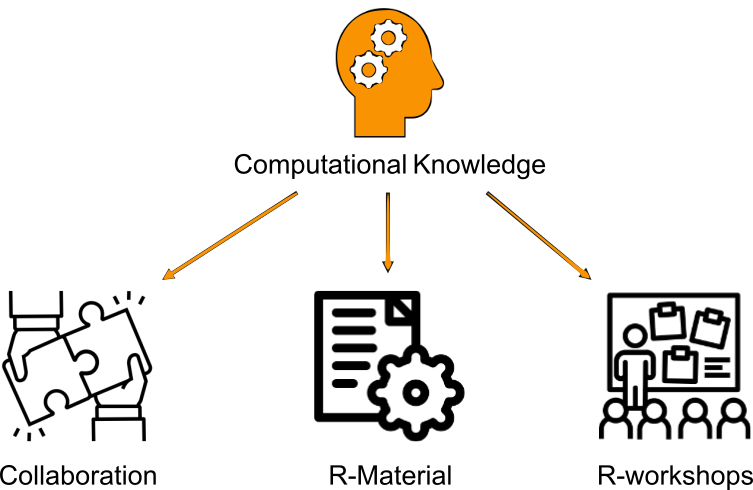
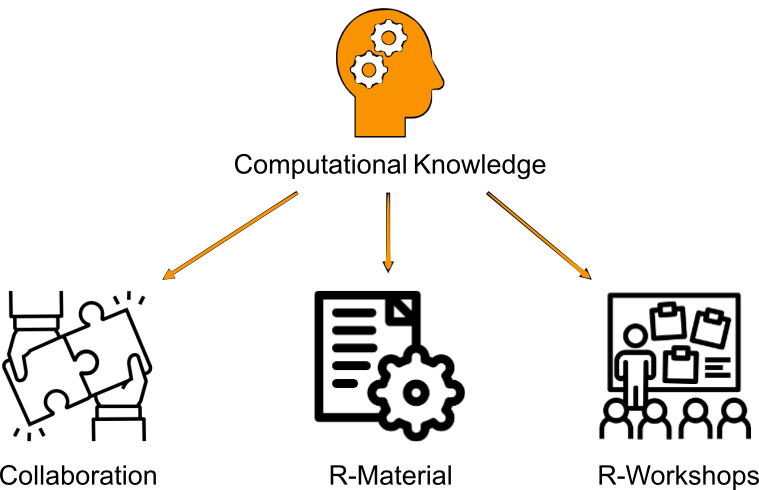
Comp Knowledge

diff --git a/_services/learning-and-collaboration.md b/_services/learning-and-collaboration.md
@@ -15,7 +15,7 @@ At the societal analytics lab we aim to serve as a nexus for connecting various 
 
 Our goal is to help social scientists acquire important computing skills. 
 
-We know that in contemporary academia, scientists have little time to invest in learning something new! Therefore, we offer three options: [Collaboration](#Collaboration), [R-Material](#R-Material), and [R-Workshops](#R-Workshops).
+We know that in contemporary academia, scientists have little time to invest in learning something new! Therefore, we offer three options: [Collaboration](#collaboration), [R Material](#r-material), and [R Workshops](#r-workshops).
 
 <p align="center">
   <img src="/images/illustrations/Comp_Knowledge.png" />
@@ -28,14 +28,14 @@ If you find yourself in need of an expert opinion or support on a particular top
 
 We would like to foster a collaboration network where we and other Lab members can speed-up science by exchanging ideas, knowledge, and skills.
 
-## R-Material
+## R Material
 
 We maintain a repository with R course material, on topics ranging from data wrangling to text analysis and advanced statistics. Feel free to use this material as you please, and to contact us for any questions or requests.
 
 This material was initially developed by [Wouter van Atteveldt](https://societal-analytics.nl/team/wouter-van-atteveldt/) and [Kasper Welbers](https://societal-analytics.nl/team/kasper-welbers/), but nowadays is also maintained by other Lab members. You can find all the information here: [R course material](https://github.com/ccs-amsterdam/r-course-material/tree/master)
 
 
-## R-Workshops
+## R Workshops
 
 We offer R-workshops specially designed for social scientists. They were developed by [Sofia Gil-Clavel](https://societal-analytics.nl/team/sofia-gil-clavel/), who has many years of experience teaching R to demographers and social scientists from different backgrounds (qualitative and quantitative).
 
